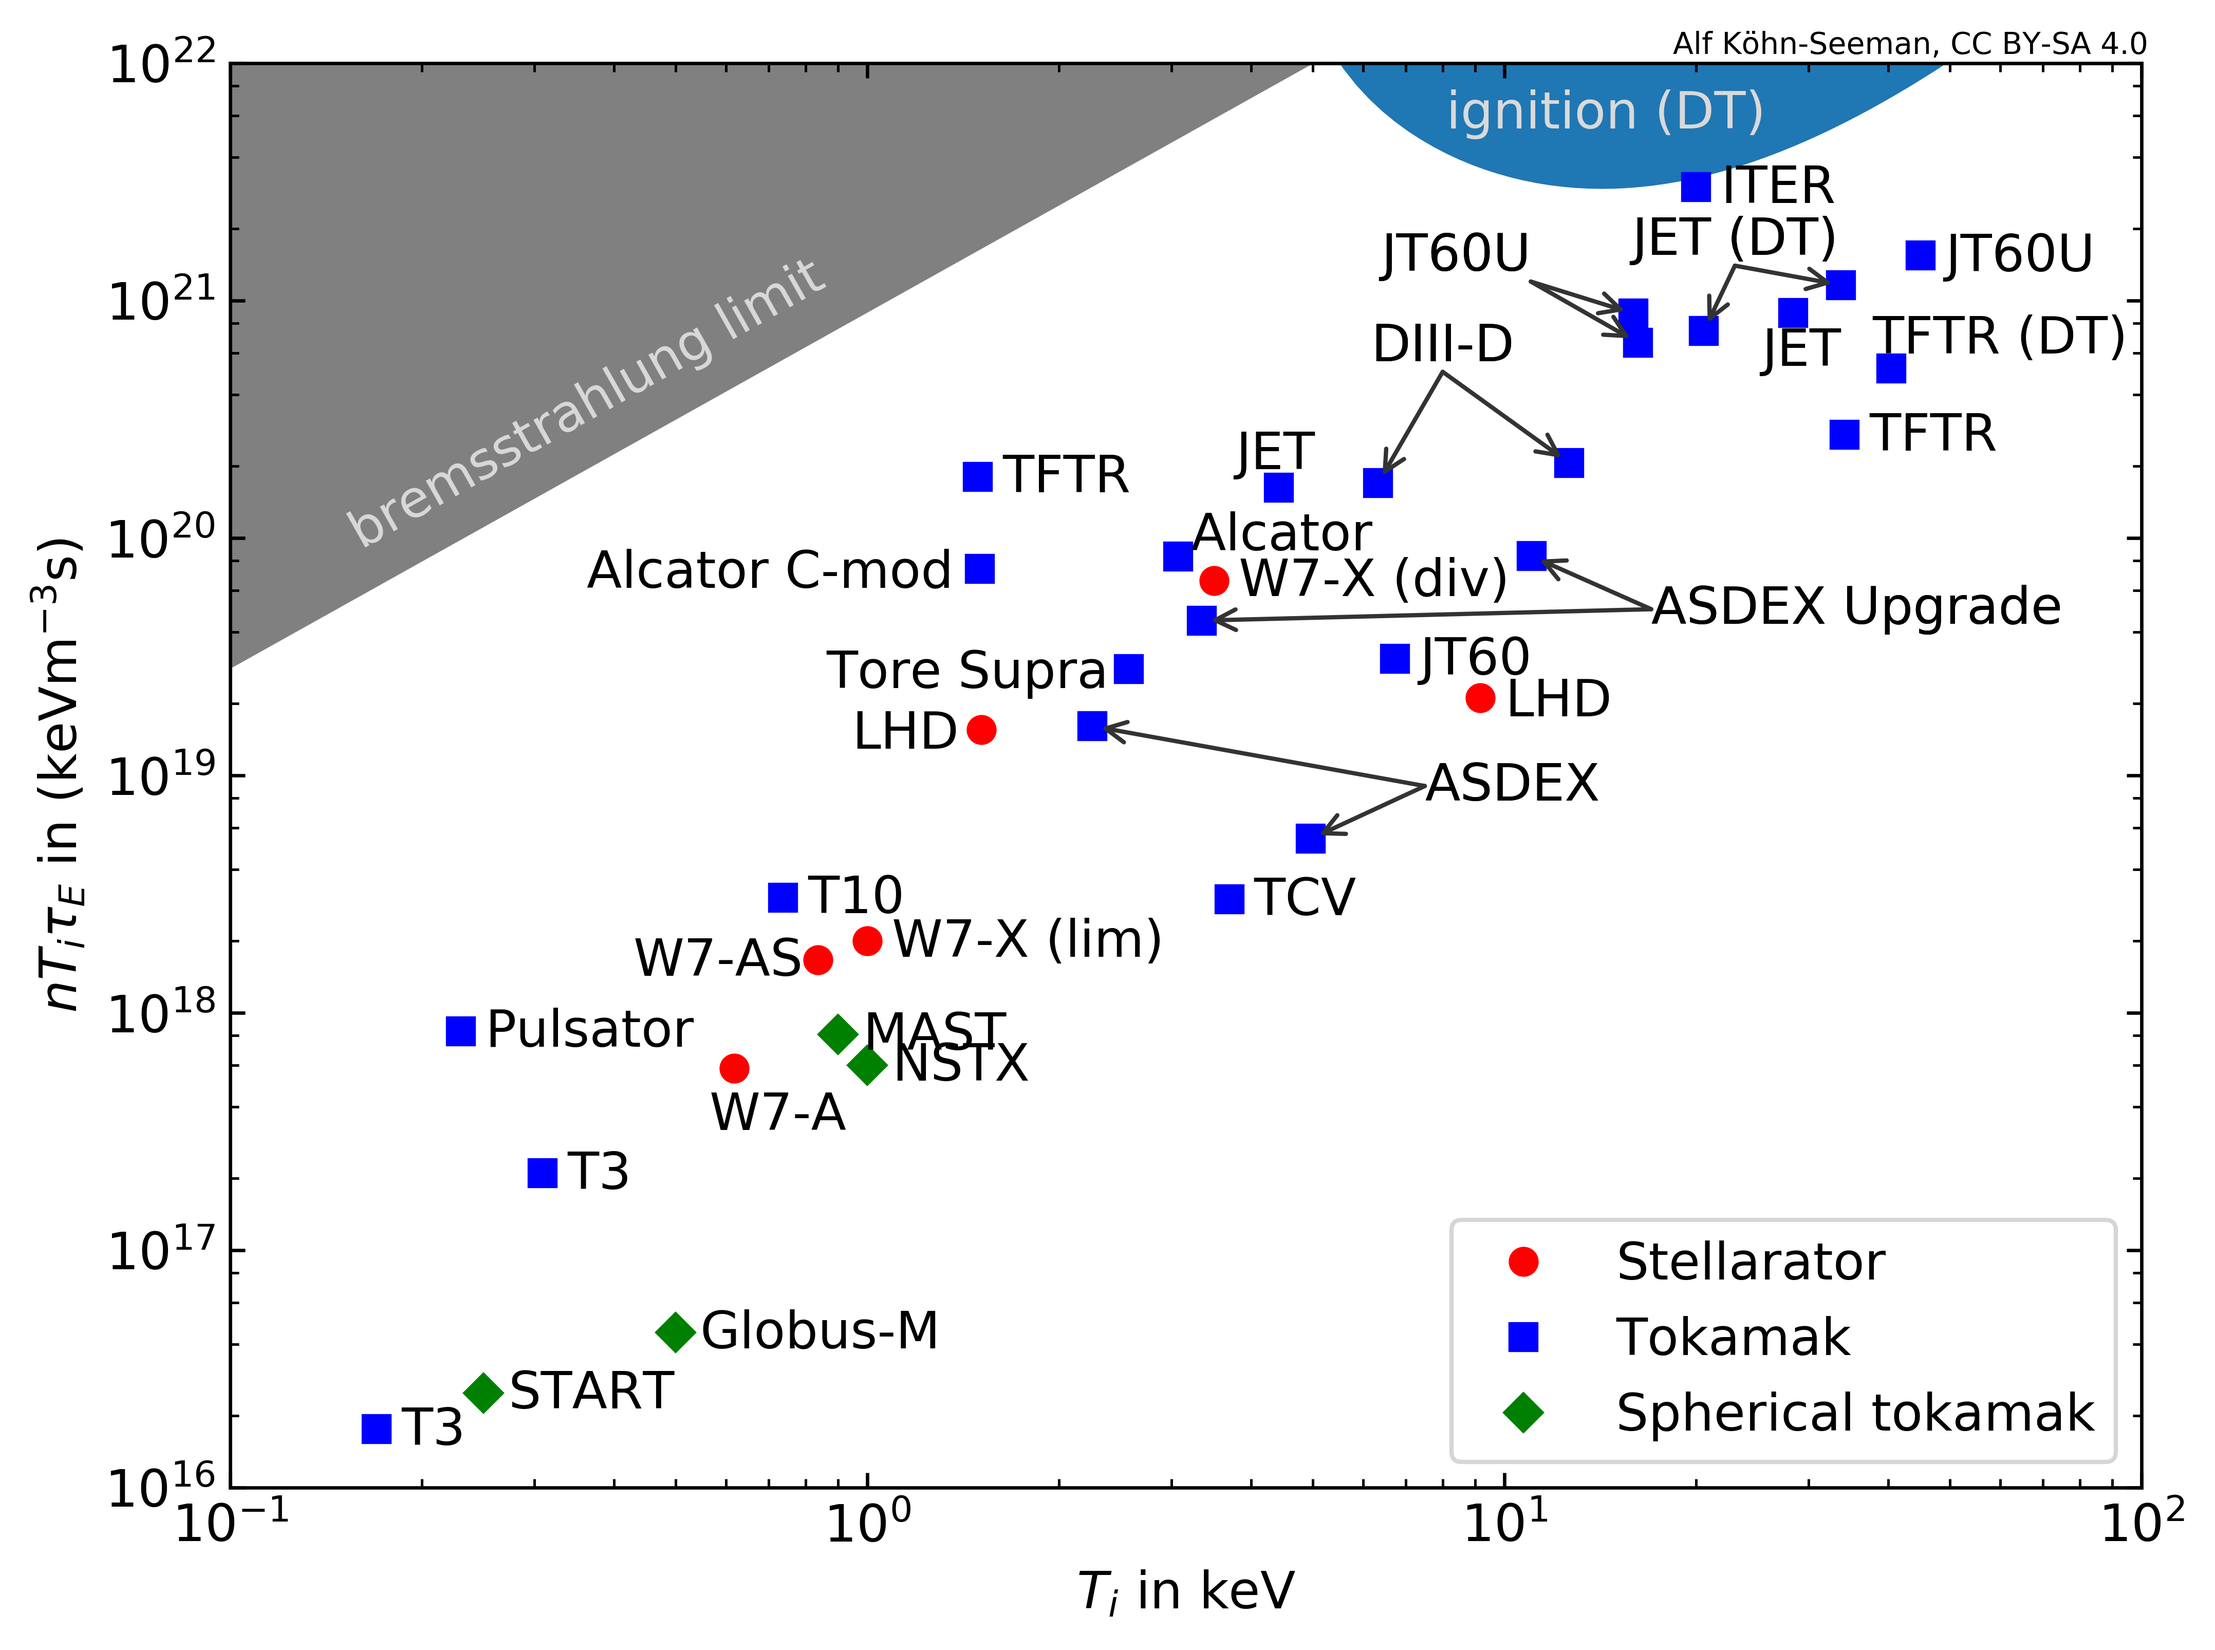
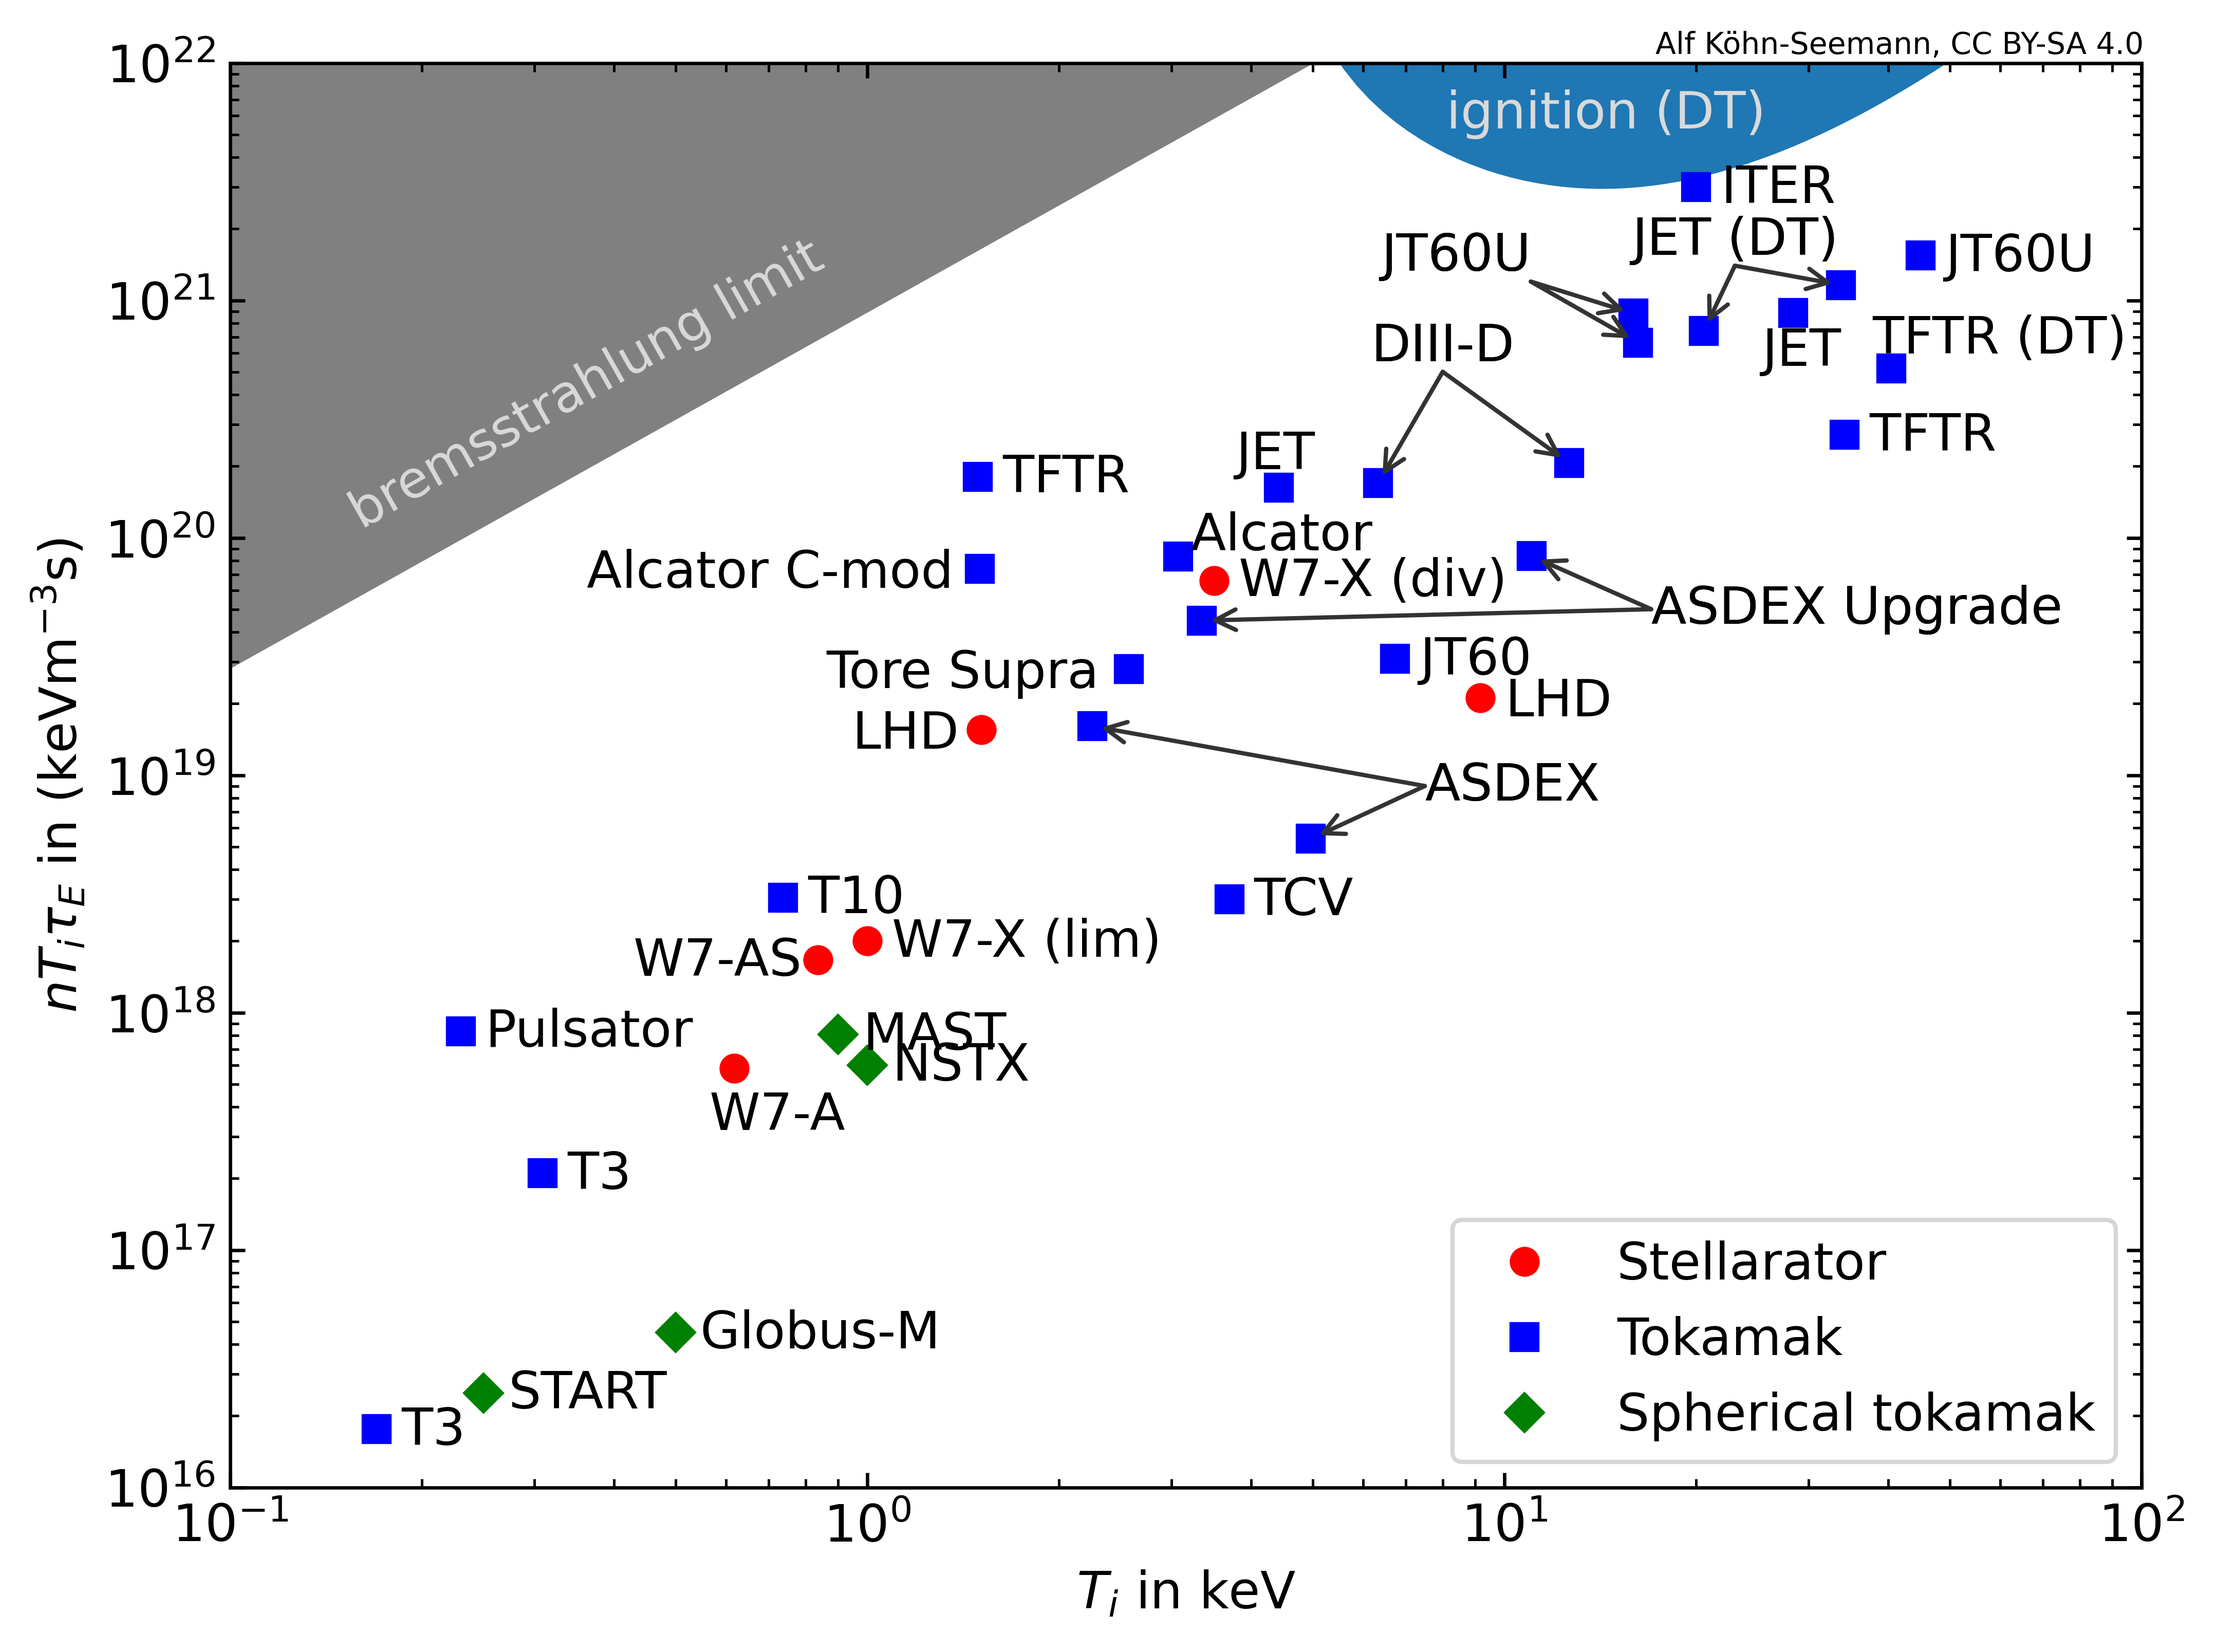
update credit-string position + bremsstrahlung-label pos

diff --git a/triple_product_vs_T/triple_product_vs_T.py b/triple_product_vs_T/triple_product_vs_T.py
@@ -306,7 +306,7 @@ def main():
     ax1.fill_between( x=T_full*1e-3, y1=F_bremslimit(T_full,1)*1e-3, y2=1e22, 
                       color='grey',
                     )
-    ax1.annotate( 'bremsstrahlung limit', xy=( 0.15, 1.1e21), color='.85', rotation=29.5 )
+    ax1.annotate( 'bremsstrahlung limit', xy=( 0.15, 1.1e20), color='.85', rotation=29.5 )
 
     # filled area indicating ignition
     T_ignition  = np.logspace( np.log10(1e3), np.log10(100e3), 100 )
@@ -493,7 +493,7 @@ def main():
 
     ax1.legend( loc='lower right' )
 
-    fig1.text( .71, .885, credit_str, fontsize=7 )
+    fig1.text( .703, .885, credit_str, fontsize=7 )
 
     make_plot( fname_plot='triple_product_vs_T.png' )
 
